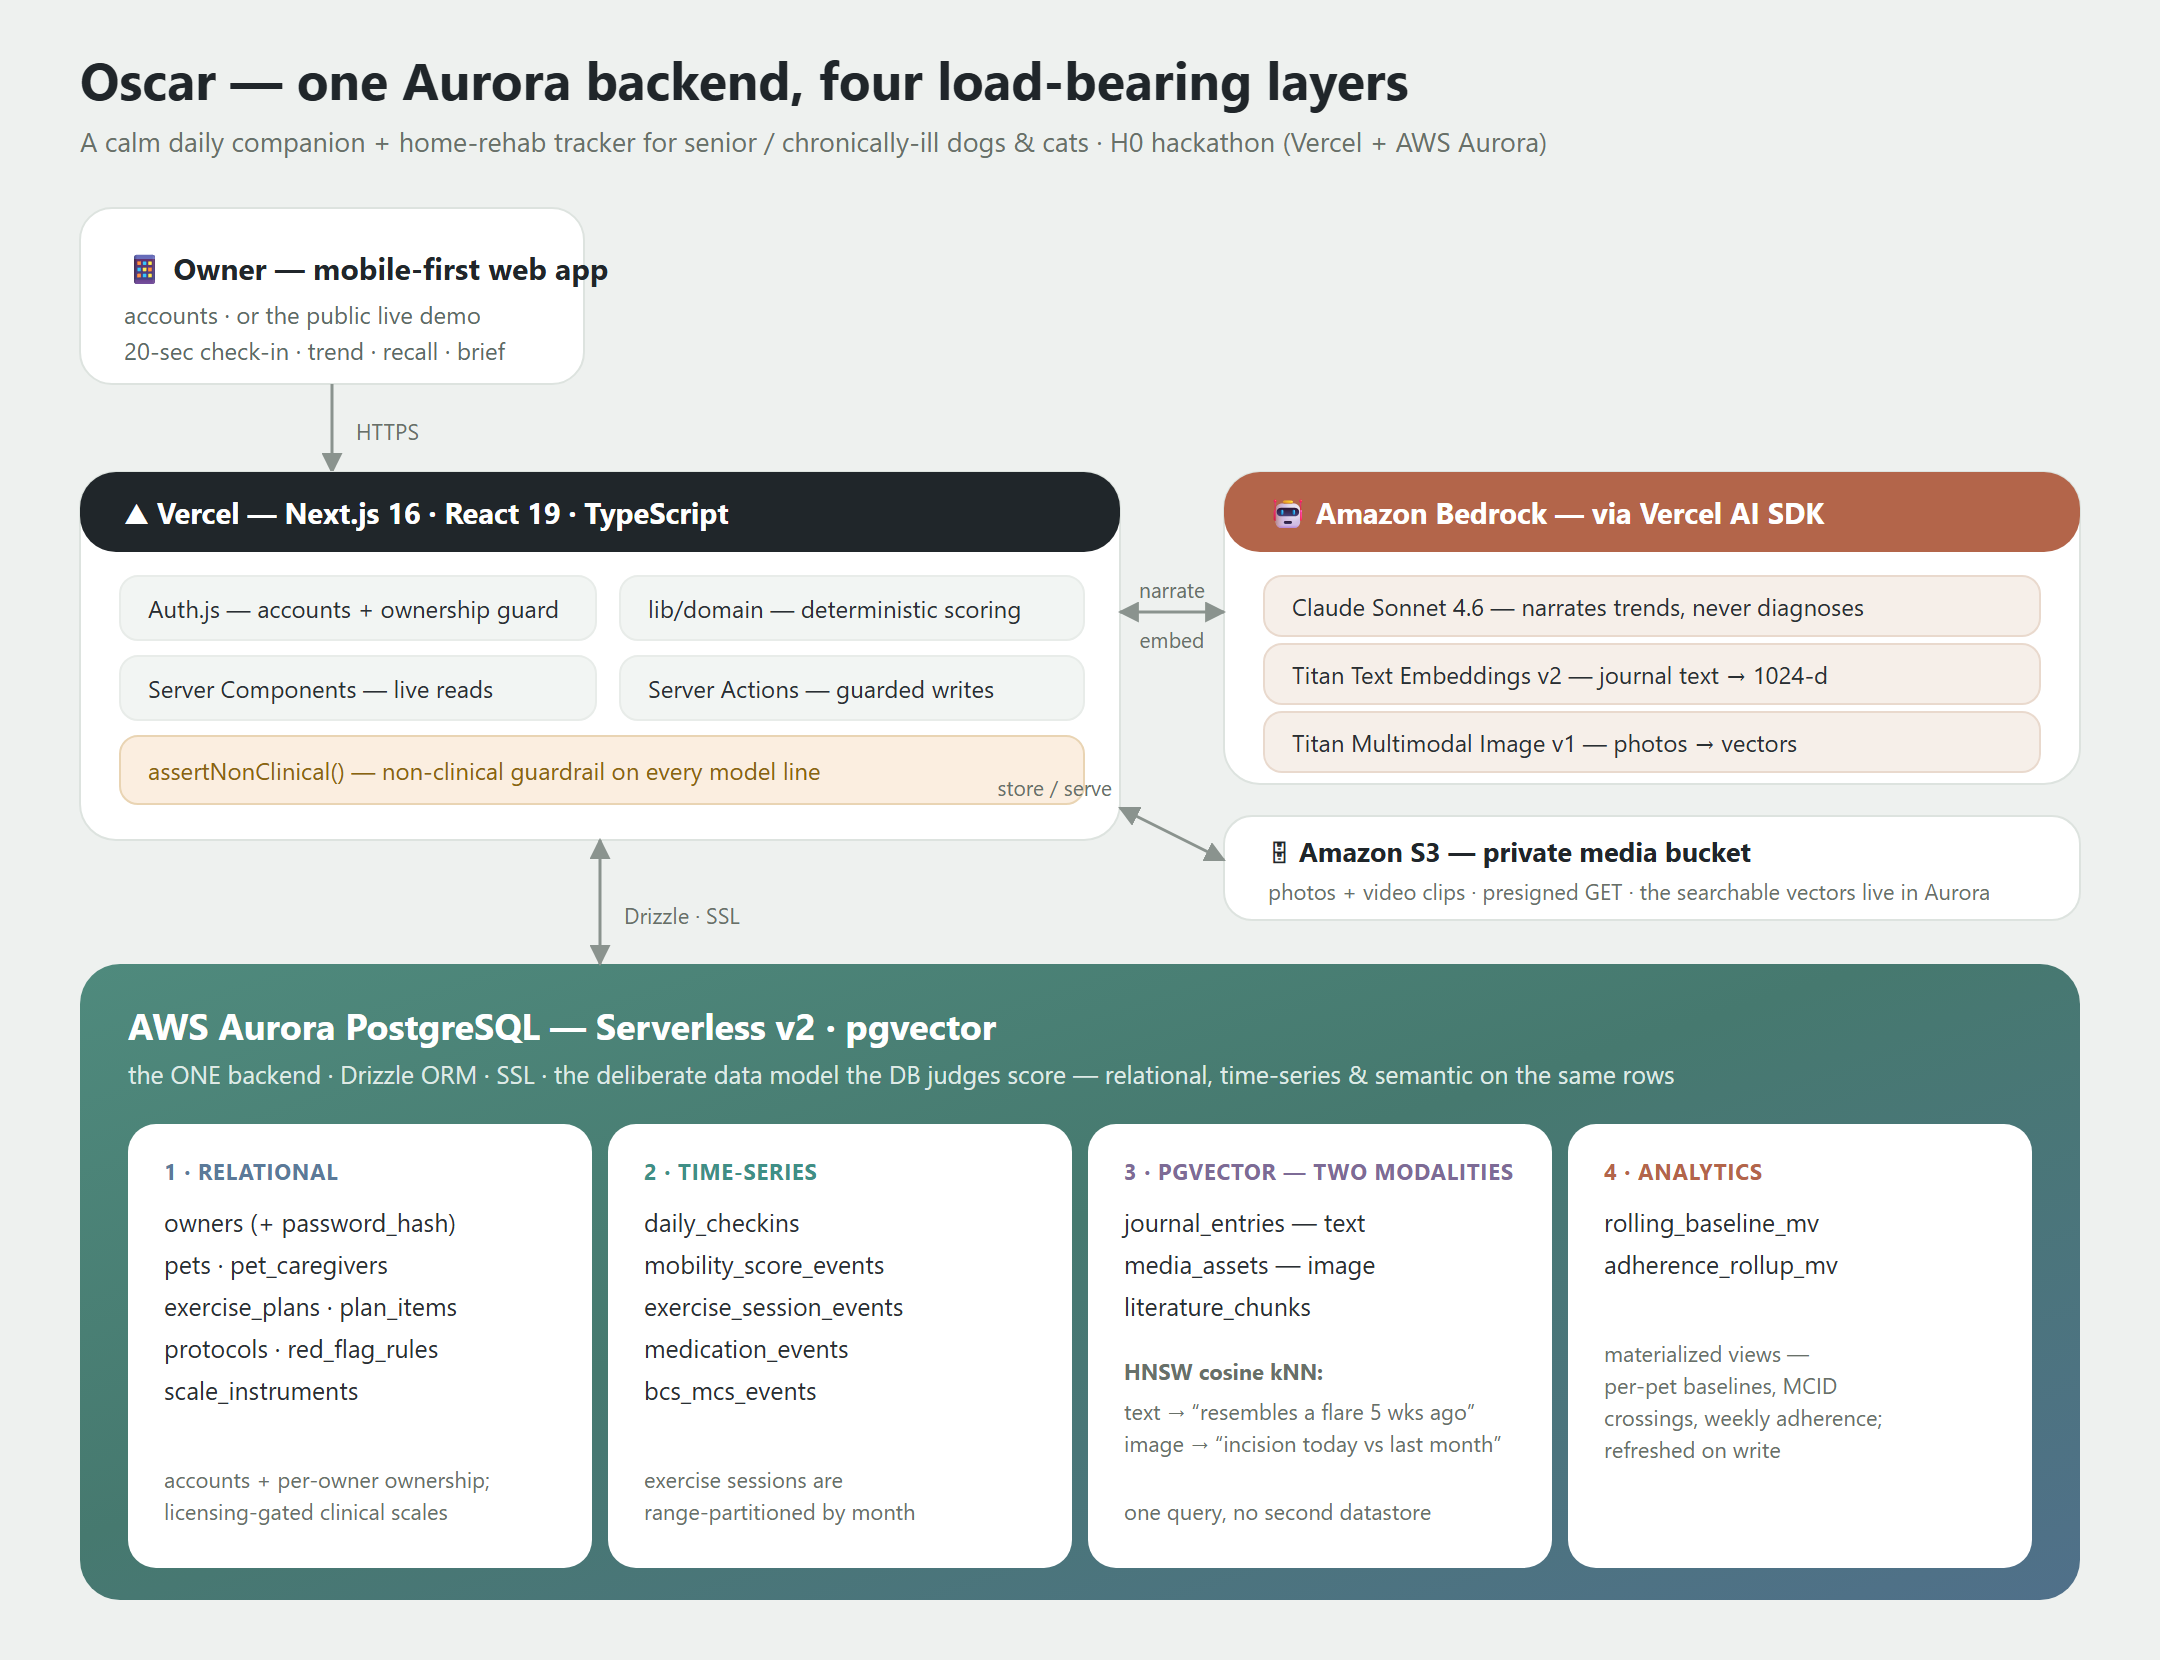
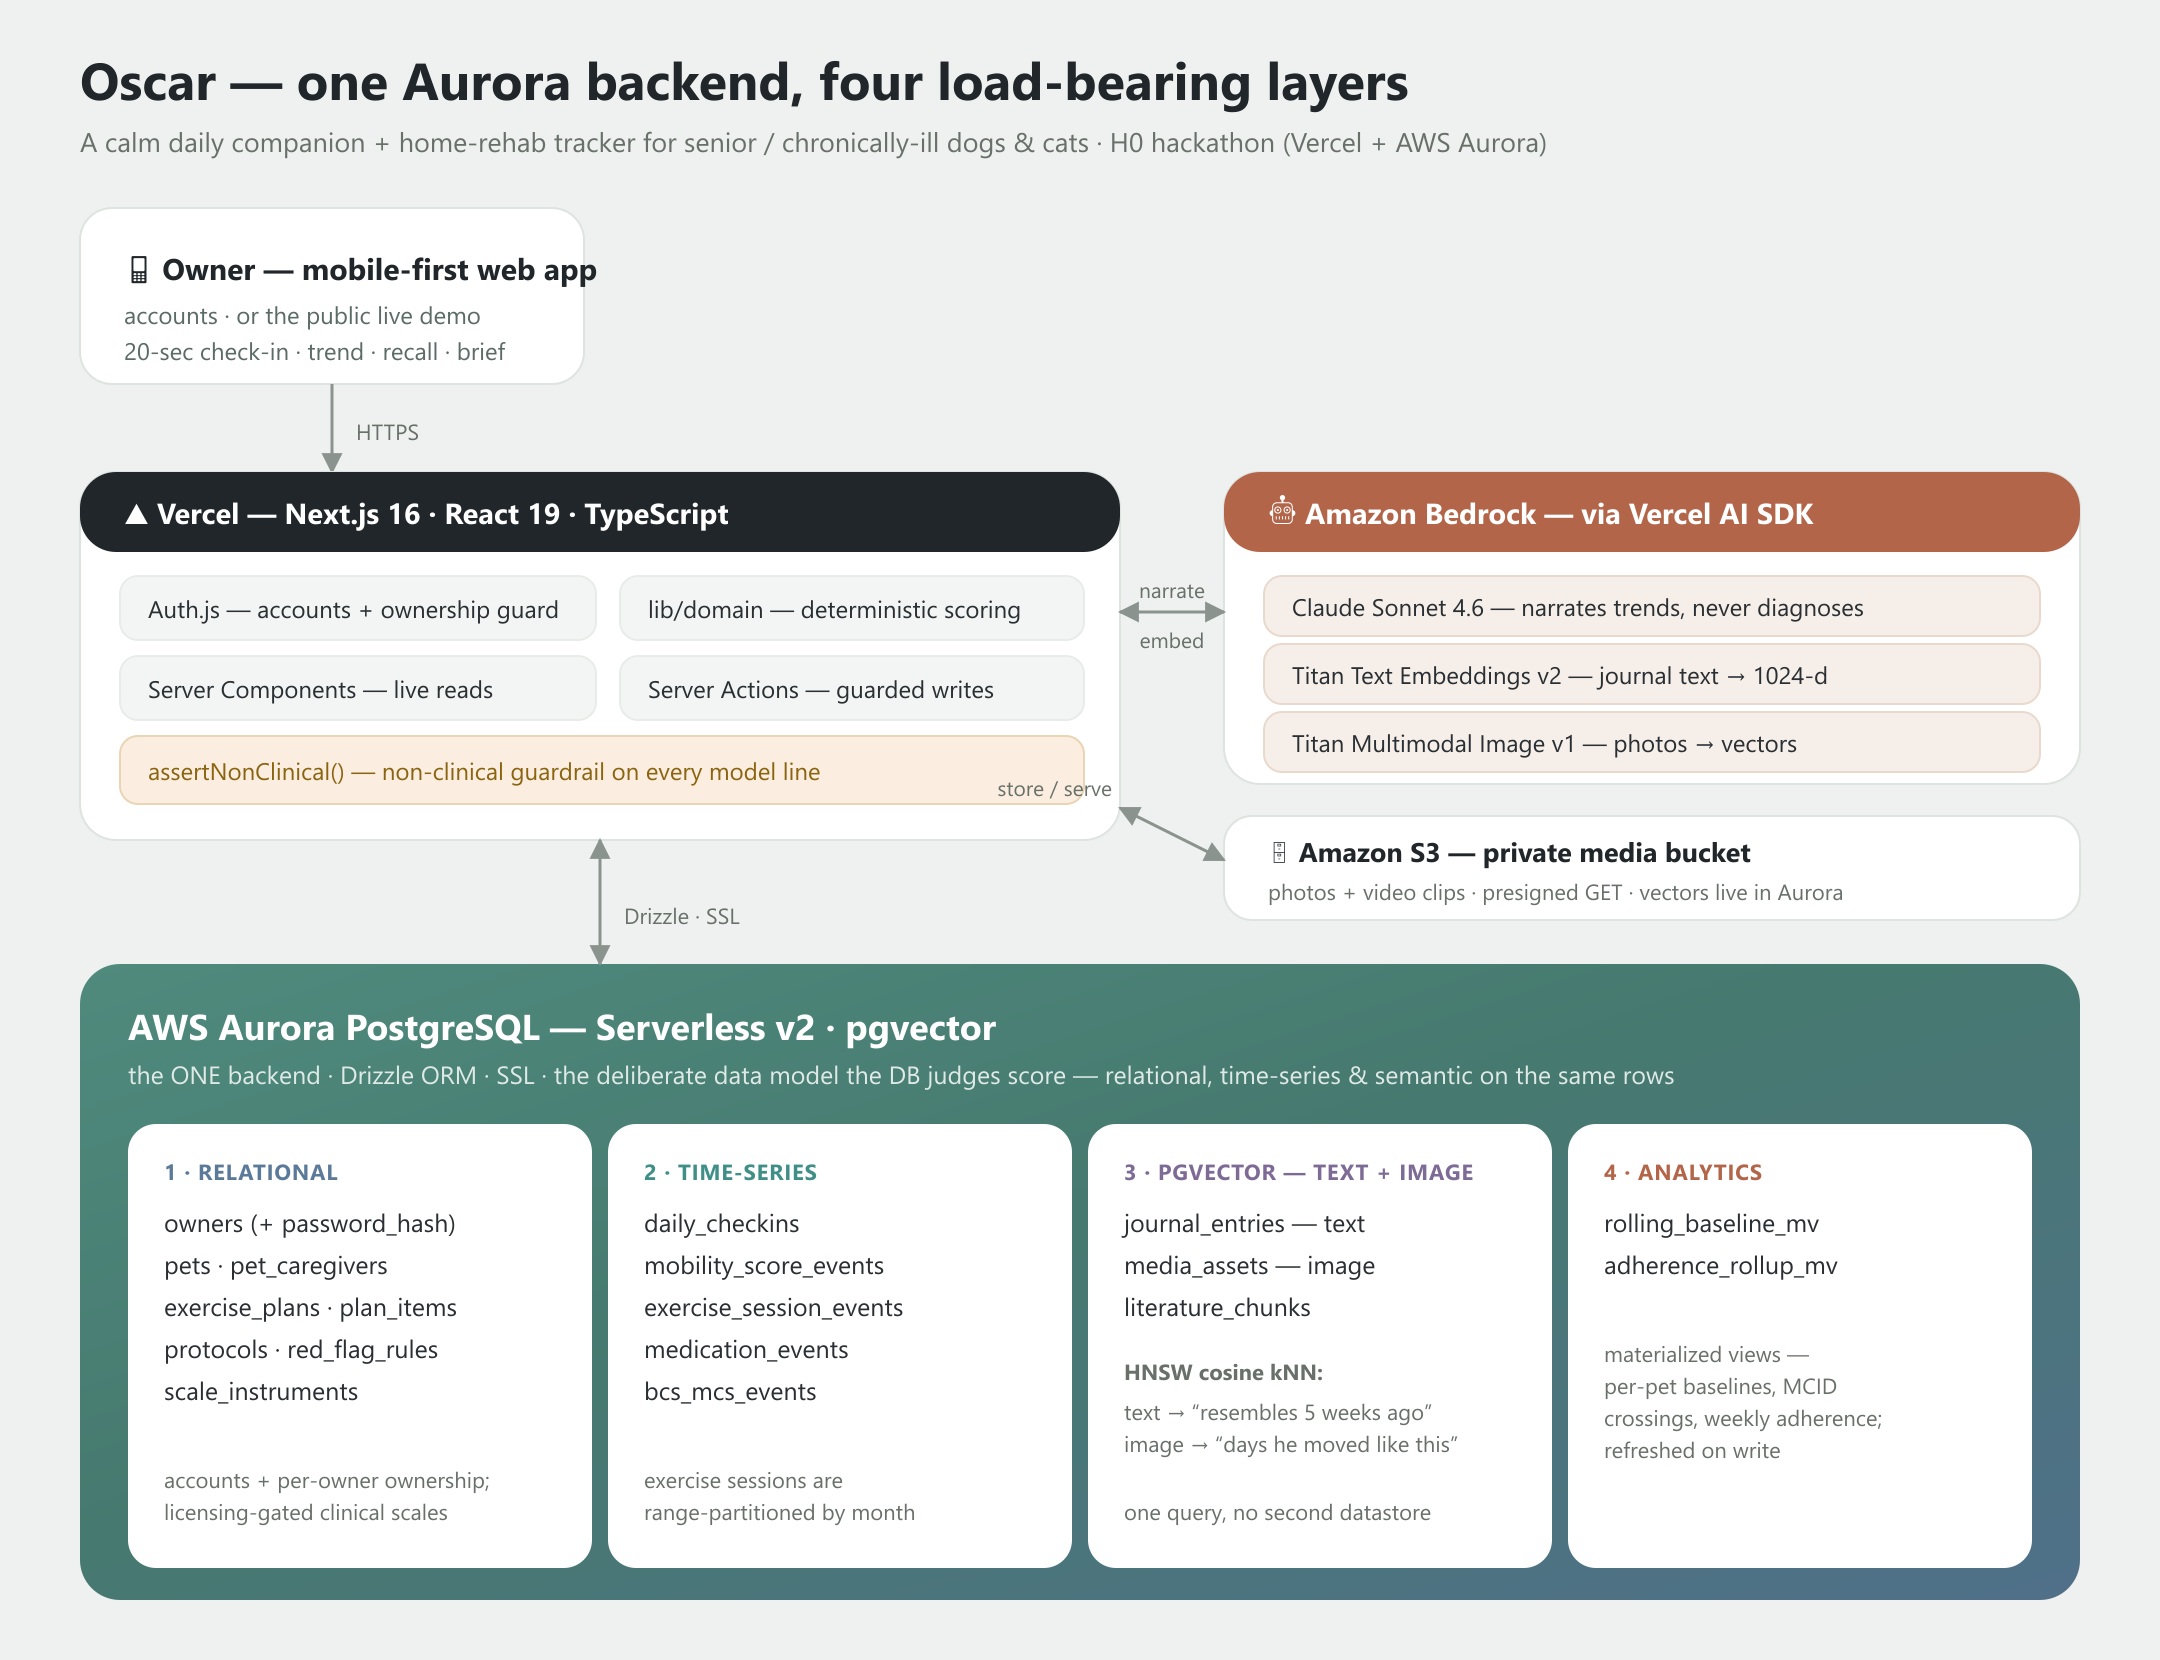
fix(dashboard): add the missing Today's check-in button (top action); fix diagram overflow + reframe to mobility; sage bookend ending slide

diff --git a/docs/slides/ending.html b/docs/slides/ending.html
@@ -8,58 +8,61 @@
 <link href="https://fonts.googleapis.com/css2?family=Geist:wght@400;500;600;700&family=Newsreader:ital,opsz,wght@0,6..72,400;0,6..72,500;0,6..72,600;1,6..72,400;1,6..72,500&display=swap" rel="stylesheet" />
 <style>
   :root{
-    --cream:#eef1ef; --charcoal:#20262a; --sage:#4f8a7d; --sage-ink:#3a6b60;
-    --gold:#d6981e; --gold-ink:#8a6410; --muted:#5a6359; --muted-soft:#8a938e;
-    --hair:#dde3df; --card:#ffffff;
+    --gold:#d6981e; --charcoal:#20262a; --cream:#eef1ef;
     --serif:"Newsreader",Georgia,serif;
     --sans:"Geist",-apple-system,"Segoe UI",sans-serif;
   }
   *{margin:0;padding:0;box-sizing:border-box}
   html,body{background:#0c100f;display:grid;place-items:center;min-height:100vh}
+  /* Deep-sage closing card — the bookend to the light opening title. */
   .stage{
     position:relative;width:1920px;height:1080px;overflow:hidden;
     background:
-      radial-gradient(1200px 720px at 50% 12%, rgba(79,138,125,.12), transparent 60%),
-      radial-gradient(1000px 680px at 88% 100%, rgba(214,152,30,.08), transparent 60%),
-      var(--cream);
-    font-family:var(--sans);color:var(--charcoal);
+      radial-gradient(1100px 700px at 50% 8%, rgba(255,255,255,.10), transparent 60%),
+      linear-gradient(150deg, #4a8175 0%, #3f6f66 46%, #46647e 100%);
+    font-family:var(--sans);color:#fff;
     display:flex;flex-direction:column;align-items:center;justify-content:center;
   }
-  /* faint watermark paw, bottom-left */
-  .wm{position:absolute;left:-60px;bottom:-80px;width:420px;height:420px;opacity:.05;transform:rotate(-12deg)}
+  .wm{position:absolute;right:-70px;top:-90px;width:440px;height:440px;opacity:.08;transform:rotate(14deg)}
+  .eyebrow{font-size:18px;font-weight:600;letter-spacing:3px;text-transform:uppercase;
+    color:rgba(255,255,255,.72);margin-bottom:30px;}
   .lockup{display:flex;align-items:center;gap:22px;}
-  .lockup .word{font-family:var(--serif);font-weight:500;font-size:84px;letter-spacing:-2px;color:var(--charcoal);}
+  .lockup .word{font-family:var(--serif);font-weight:500;font-size:86px;letter-spacing:-2px;color:#fff;}
   .promise{font-family:var(--serif);font-style:italic;font-weight:400;font-size:40px;
-    color:var(--sage-ink);margin-top:26px;letter-spacing:-.2px;text-align:center;}
-  .links{display:flex;flex-direction:column;gap:18px;margin-top:52px;}
-  .row{display:flex;align-items:center;gap:18px;font-size:34px;font-weight:600;color:var(--sage-ink);}
-  .chip{width:54px;height:54px;border-radius:14px;background:rgba(79,138,125,.13);
+    color:rgba(255,255,255,.94);margin-top:24px;letter-spacing:-.2px;text-align:center;}
+  .links{display:flex;flex-direction:column;gap:16px;margin-top:50px;
+    background:rgba(255,255,255,.10);border:1px solid rgba(255,255,255,.18);
+    border-radius:22px;padding:26px 40px;}
+  .row{display:flex;align-items:center;gap:18px;font-size:33px;font-weight:600;color:#fff;}
+  .chip{width:52px;height:52px;border-radius:13px;background:rgba(255,255,255,.16);
     display:grid;place-items:center;flex:0 0 auto;}
-  .stack{font-size:23px;color:var(--muted);margin-top:50px;letter-spacing:.2px;text-align:center;max-width:1150px;line-height:1.5;}
-  .tag{margin-top:34px;font-family:var(--sans);font-weight:700;font-size:25px;letter-spacing:.5px;
-    color:#fff;background:linear-gradient(180deg,#59978a,#437a6d);
-    padding:12px 26px;border-radius:999px;box-shadow:0 8px 20px rgba(63,123,109,.28);}
+  .stack{font-size:22px;color:rgba(255,255,255,.82);margin-top:40px;letter-spacing:.2px;text-align:center;max-width:1150px;line-height:1.5;}
+  .tag{margin-top:30px;font-family:var(--sans);font-weight:700;font-size:25px;letter-spacing:.5px;
+    color:var(--charcoal);background:var(--gold);
+    padding:12px 28px;border-radius:999px;box-shadow:0 10px 24px rgba(0,0,0,.20);}
   .memory{position:absolute;left:0;right:0;bottom:46px;text-align:center;
-    font-size:18px;color:var(--muted-soft);letter-spacing:.4px;}
+    font-size:18px;color:rgba(255,255,255,.72);letter-spacing:.4px;}
 </style>
 </head>
 <body>
   <div class="stage">
     <!-- watermark -->
     <svg class="wm" viewBox="0 0 92 92" xmlns="http://www.w3.org/2000/svg" aria-hidden="true">
-      <ellipse cx="20" cy="36" rx="6.4" ry="8.4" fill="#4f8a7d" transform="rotate(-24 20 36)"/>
-      <ellipse cx="35" cy="24" rx="7" ry="9" fill="#4f8a7d" transform="rotate(-8 35 24)"/>
-      <ellipse cx="57" cy="24" rx="7" ry="9" fill="#4f8a7d" transform="rotate(8 57 24)"/>
-      <ellipse cx="72" cy="36" rx="6.4" ry="8.4" fill="#4f8a7d" transform="rotate(24 72 36)"/>
+      <ellipse cx="20" cy="36" rx="6.4" ry="8.4" fill="#fff" transform="rotate(-24 20 36)"/>
+      <ellipse cx="35" cy="24" rx="7" ry="9" fill="#fff" transform="rotate(-8 35 24)"/>
+      <ellipse cx="57" cy="24" rx="7" ry="9" fill="#fff" transform="rotate(8 57 24)"/>
+      <ellipse cx="72" cy="36" rx="6.4" ry="8.4" fill="#fff" transform="rotate(24 72 36)"/>
       <path d="M46 80 C 30 66 22 57 22 49 C 22 43 27 40 32 41 C 37 42 44 47 46 52 C 48 47 55 42 60 41 C 65 40 70 43 70 49 C 70 57 62 66 46 80 Z" fill="#d6981e"/>
     </svg>
 
+    <div class="eyebrow">H0 Hackathon · Vercel + AWS Aurora</div>
+
     <div class="lockup">
-      <svg viewBox="0 0 92 92" width="76" height="76" xmlns="http://www.w3.org/2000/svg" aria-label="Oscar">
-        <ellipse cx="20" cy="36" rx="6.4" ry="8.4" fill="#4f8a7d" transform="rotate(-24 20 36)"/>
-        <ellipse cx="35" cy="24" rx="7" ry="9" fill="#4f8a7d" transform="rotate(-8 35 24)"/>
-        <ellipse cx="57" cy="24" rx="7" ry="9" fill="#4f8a7d" transform="rotate(8 57 24)"/>
-        <ellipse cx="72" cy="36" rx="6.4" ry="8.4" fill="#4f8a7d" transform="rotate(24 72 36)"/>
+      <svg viewBox="0 0 92 92" width="78" height="78" xmlns="http://www.w3.org/2000/svg" aria-label="Oscar">
+        <ellipse cx="20" cy="36" rx="6.4" ry="8.4" fill="#fff" transform="rotate(-24 20 36)"/>
+        <ellipse cx="35" cy="24" rx="7" ry="9" fill="#fff" transform="rotate(-8 35 24)"/>
+        <ellipse cx="57" cy="24" rx="7" ry="9" fill="#fff" transform="rotate(8 57 24)"/>
+        <ellipse cx="72" cy="36" rx="6.4" ry="8.4" fill="#fff" transform="rotate(24 72 36)"/>
         <path d="M46 80 C 30 66 22 57 22 49 C 22 43 27 40 32 41 C 37 42 44 47 46 52 C 48 47 55 42 60 41 C 65 40 70 43 70 49 C 70 57 62 66 46 80 Z" fill="#d6981e"/>
       </svg>
       <span class="word">Oscar</span>
@@ -70,7 +73,7 @@
     <div class="links">
       <div class="row">
         <span class="chip">
-          <svg width="28" height="28" viewBox="0 0 24 24" fill="none" stroke="#3a6b60" stroke-width="1.8" stroke-linecap="round" stroke-linejoin="round">
+          <svg width="27" height="27" viewBox="0 0 24 24" fill="none" stroke="#fff" stroke-width="1.8" stroke-linecap="round" stroke-linejoin="round">
             <circle cx="12" cy="12" r="10"/><path d="M2 12h20"/>
             <path d="M12 2a15.3 15.3 0 0 1 0 20 15.3 15.3 0 0 1 0-20Z"/>
           </svg>
@@ -79,7 +82,7 @@
       </div>
       <div class="row">
         <span class="chip">
-          <svg width="28" height="28" viewBox="0 0 24 24" fill="#3a6b60" aria-hidden="true">
+          <svg width="27" height="27" viewBox="0 0 24 24" fill="#fff" aria-hidden="true">
             <path d="M12 .5C5.6.5.5 5.6.5 12c0 5.1 3.3 9.4 7.9 10.9.6.1.8-.3.8-.6v-2c-3.2.7-3.9-1.5-3.9-1.5-.5-1.3-1.3-1.7-1.3-1.7-1.1-.7.1-.7.1-.7 1.2.1 1.8 1.2 1.8 1.2 1 1.8 2.8 1.3 3.5 1 .1-.8.4-1.3.7-1.6-2.6-.3-5.3-1.3-5.3-5.8 0-1.3.5-2.3 1.2-3.1-.1-.3-.5-1.5.1-3.1 0 0 1-.3 3.3 1.2a11.5 11.5 0 0 1 6 0c2.3-1.5 3.3-1.2 3.3-1.2.6 1.6.2 2.8.1 3.1.8.8 1.2 1.8 1.2 3.1 0 4.5-2.7 5.5-5.3 5.8.4.4.8 1.1.8 2.2v3.3c0 .3.2.7.8.6 4.6-1.5 7.9-5.8 7.9-10.9C23.5 5.6 18.4.5 12 .5Z"/>
           </svg>
         </span>

diff --git a/components/dashboard/DashboardScreen.tsx b/components/dashboard/DashboardScreen.tsx
@@ -364,6 +364,33 @@ function VetBriefCard({ header, briefCount, href }: { header: PetHeader; briefCo
   );
 }
 
+function CheckinCard({ name, streakDays, href }: { name: string; streakDays: number; href: string }) {
+  return (
+    <Link
+      href={href}
+      className="gv-press"
+      style={{
+        width: "100%", textAlign: "left", cursor: "pointer",
+        background: "linear-gradient(135deg, #59978a, #437a6d)", border: "none",
+        borderRadius: "var(--radius)", padding: 16, color: "#fff",
+        boxShadow: "0 10px 24px rgba(63,123,109,0.28)",
+        display: "flex", alignItems: "center", gap: 13, textDecoration: "none",
+      }}
+    >
+      <div style={{ width: 40, height: 40, borderRadius: 12, flexShrink: 0, background: "rgba(255,255,255,0.2)", display: "flex", alignItems: "center", justifyContent: "center" }}>
+        {Ico.heart({ s: 20, c: "#fff" })}
+      </div>
+      <div style={{ flex: 1, minWidth: 0 }}>
+        <div style={{ fontFamily: "var(--serif)", fontSize: 17, fontWeight: 500 }}>Today&rsquo;s check-in</div>
+        <div style={{ fontSize: 12, color: "rgba(255,255,255,0.85)", marginTop: 1 }}>
+          {streakDays > 0 ? `Twenty seconds · keep the ${streakDays}-day streak going` : `Twenty seconds · how ${name}’s moving today`}
+        </div>
+      </div>
+      {Ico.chevR({ s: 18, c: "#fff" })}
+    </Link>
+  );
+}
+
 export function DashboardScreen({ header, view, isDemo = false }: { header: PetHeader; view: DashboardView; isDemo?: boolean }) {
   const briefHref = `/pets/${header.id}/brief`;
   const recallHref = `/pets/${header.id}/recall`;
@@ -387,6 +414,7 @@ export function DashboardScreen({ header, view, isDemo = false }: { header: PetH
         />
       </Hero>
       <div style={{ display: "flex", flexDirection: "column", gap: 14 }}>
+        <CheckinCard name={header.name} streakDays={header.streakDays} href={`/pets/${header.id}/checkin`} />
         <MobilityChart trend={view.mobility} bandLabel={bandLabel(view.mobility.band)} />
         <QolWeekCard qol={view.qol} />
         {view.progression.fires && <ProgressionCard nudge={view.progression} briefHref={briefHref} />}